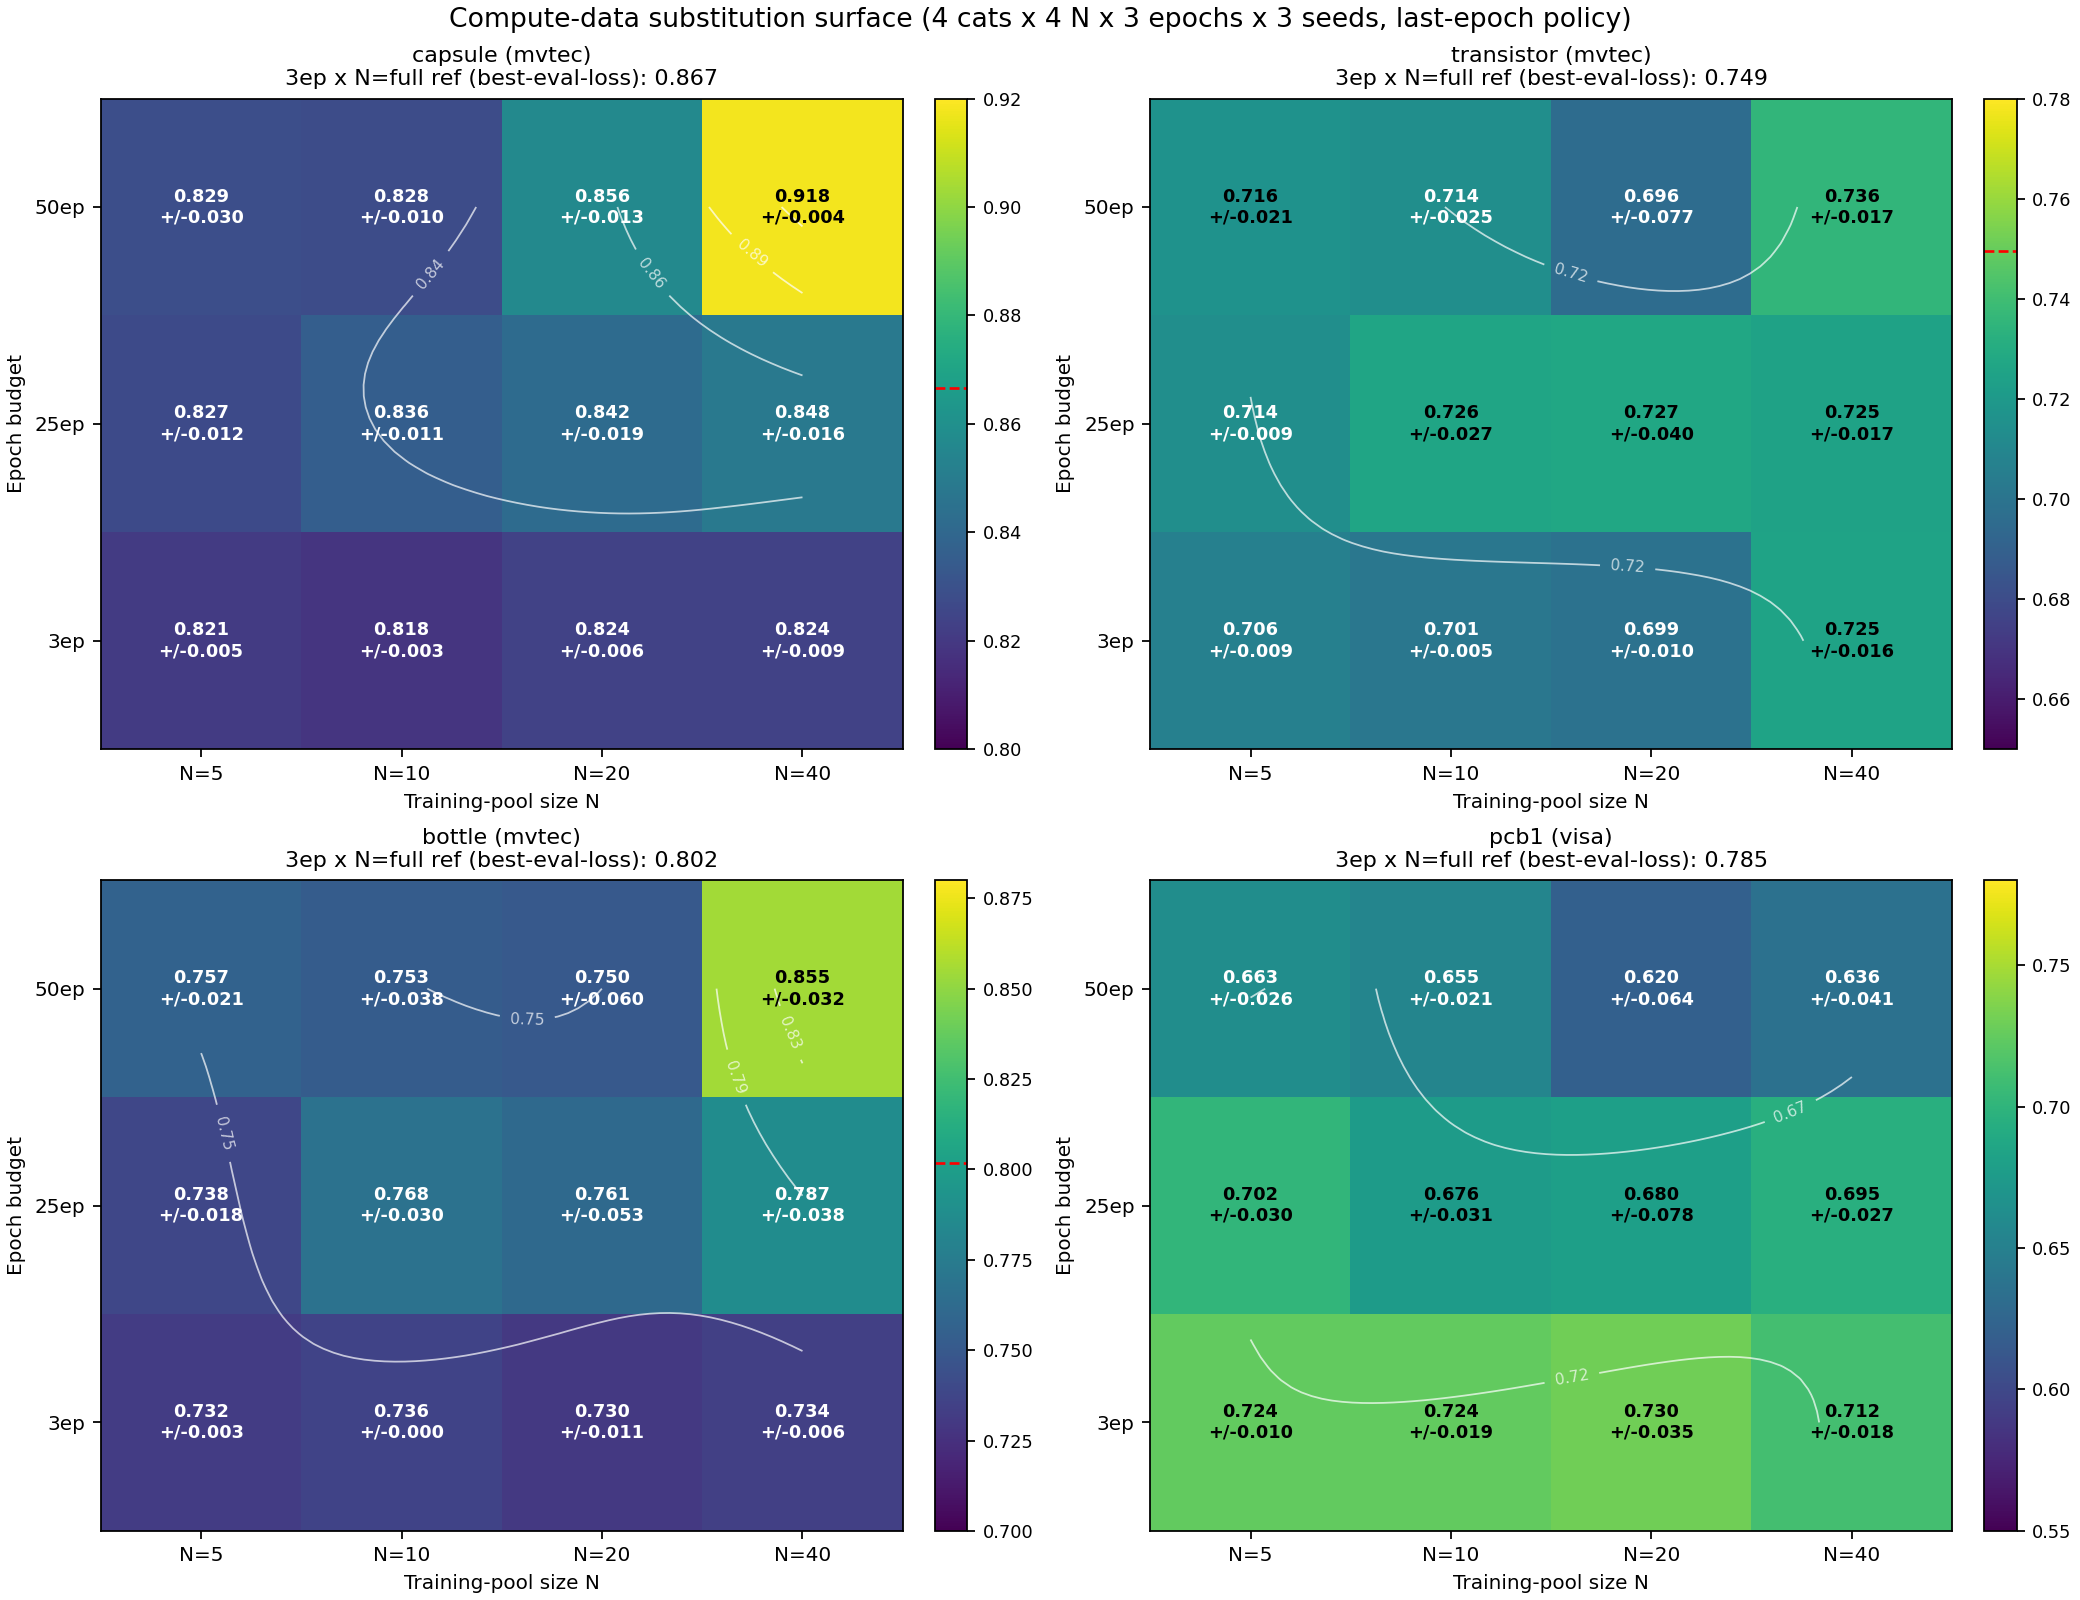
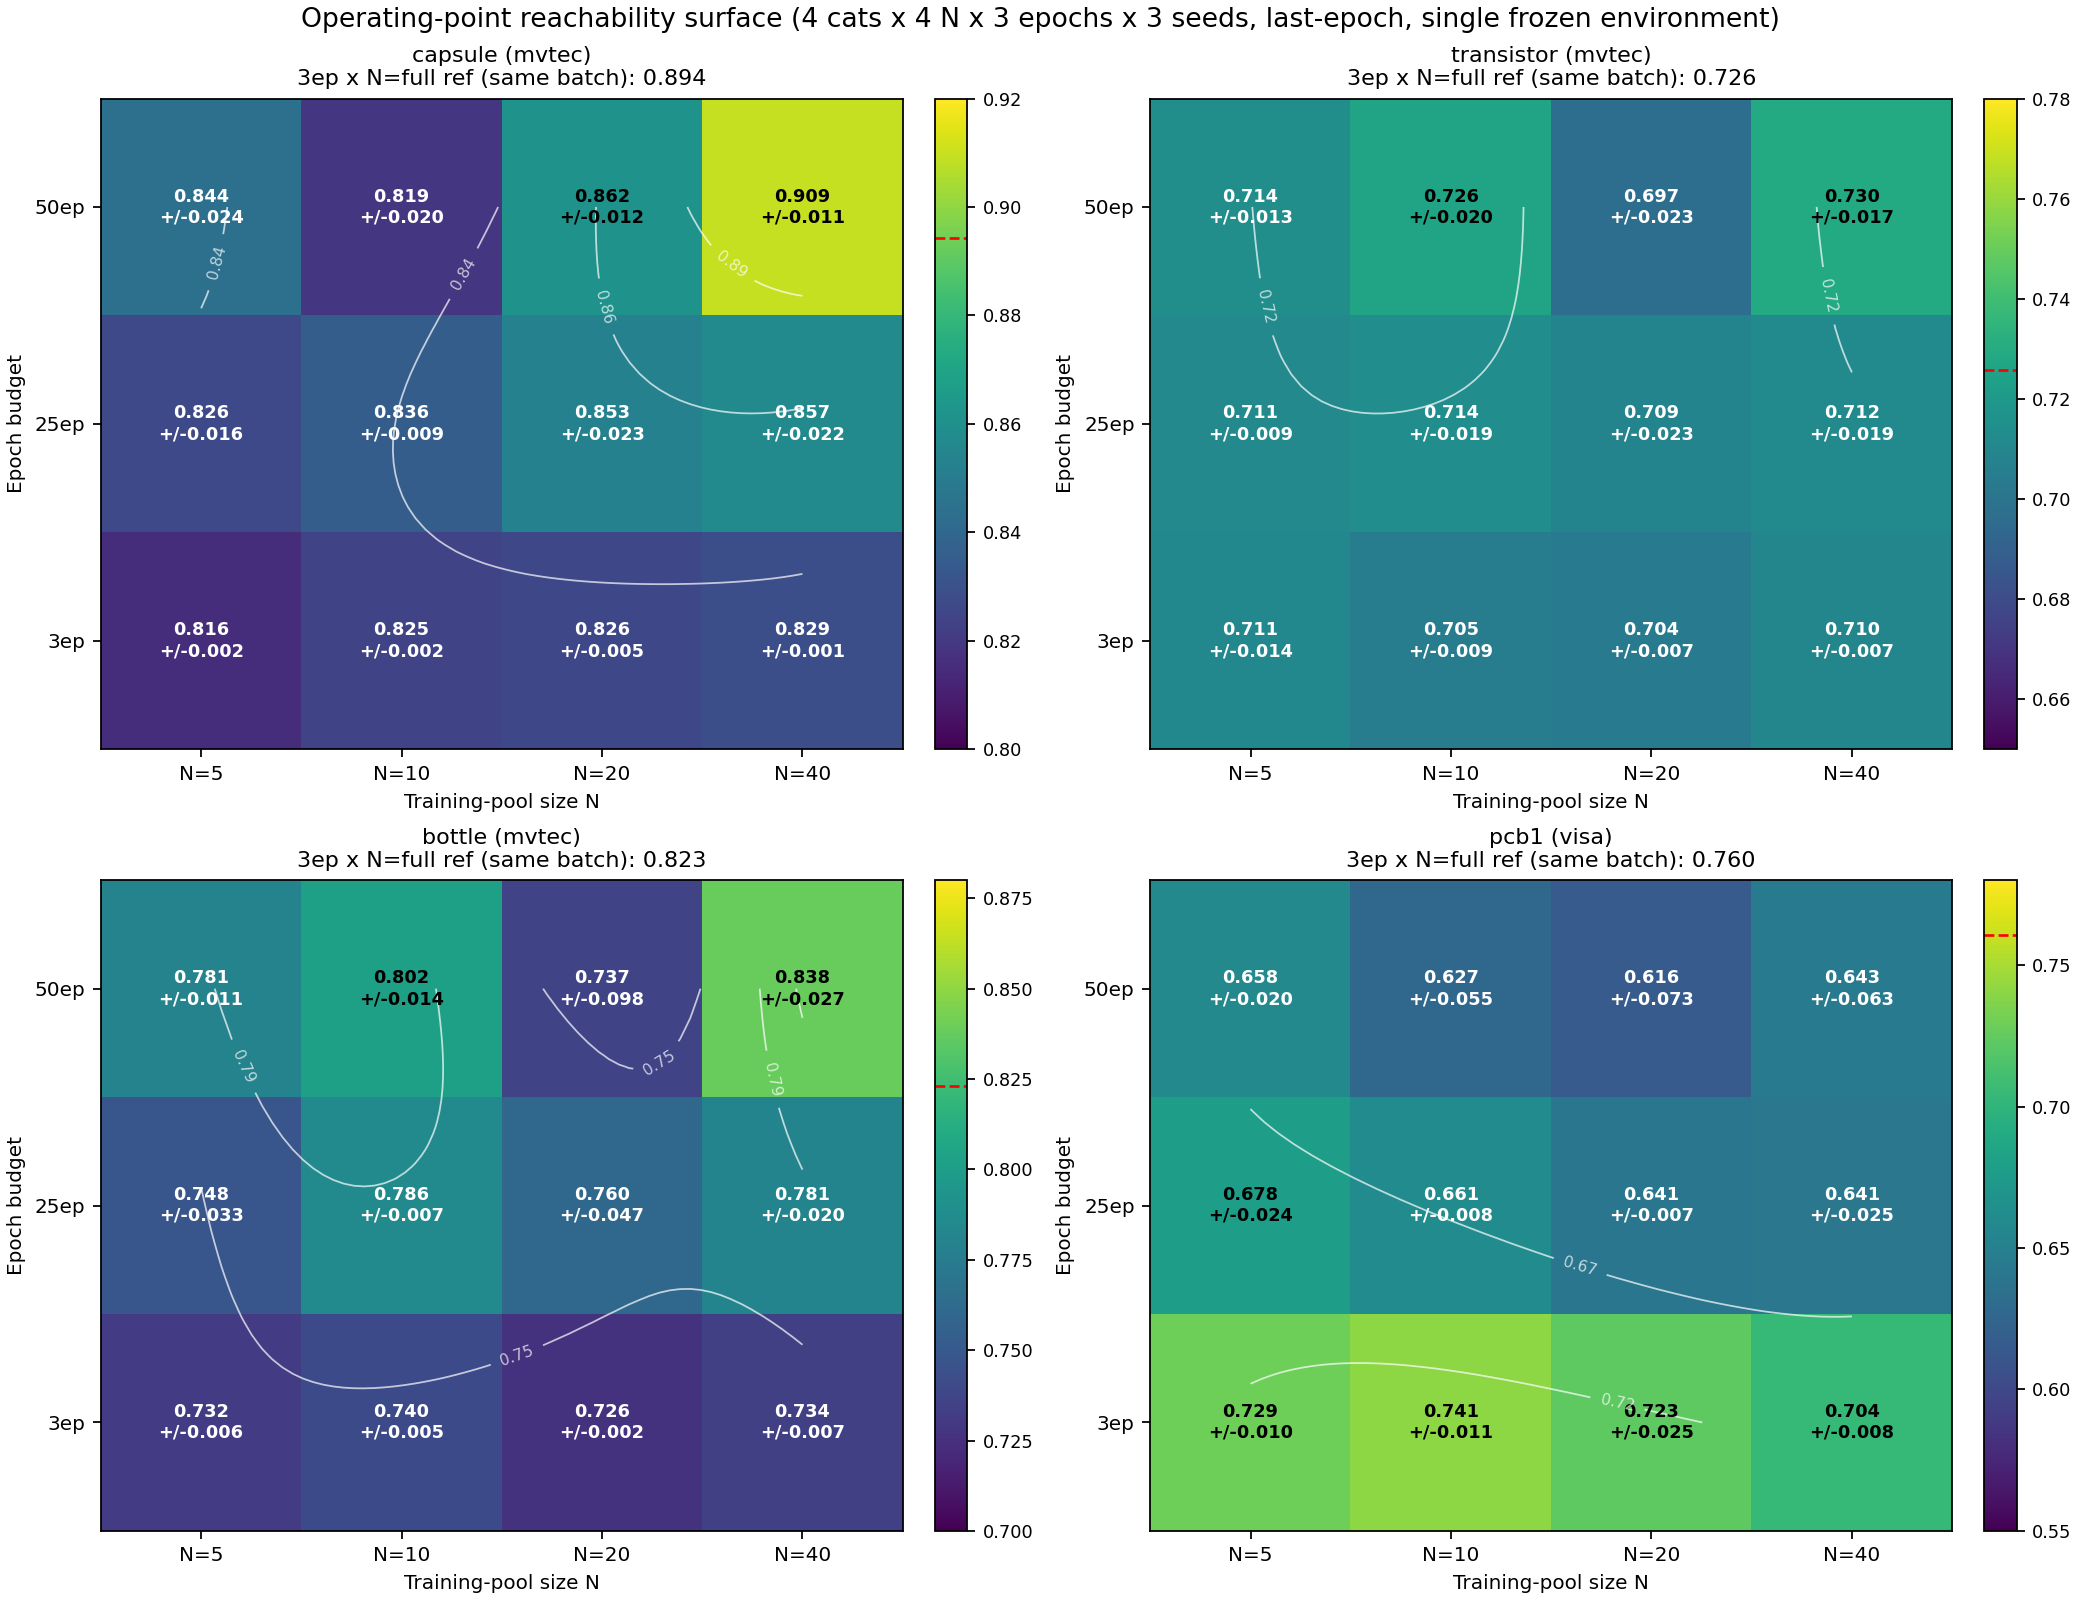
figures: regenerate 2D surface + teaser from frozen single-environment batch
make_v15_figures.py now reads the v0.6-*-frozen recipes (pass16) instead
of v0.5-2d-sweep / v0.8-fixed-pipeline, so the surface corner and its
full-pool reference are same-environment. Frozen capsule corner 0.909 vs
0.894 reference; titles reframed to operating-point reachability.

diff --git a/research/baselines/make_v15_figures.py b/research/baselines/make_v15_figures.py
@@ -648,12 +648,12 @@ def fig_2d_substitutability_4cat(rows):
     ns = [5, 10, 20, 40]
 
     fig, axes = plt.subplots(2, 2, figsize=(13, 10), constrained_layout=True)
-    fig.suptitle("Compute-data substitution surface (4 cats x 4 N x 3 epochs x 3 seeds, last-epoch policy)",
+    fig.suptitle("Operating-point reachability surface (4 cats x 4 N x 3 epochs x 3 seeds, last-epoch, single frozen environment)",
                  fontsize=12)
 
     for k, (cat, ds, label, vrange) in enumerate(cats):
         ax = axes[k // 2, k % 2]
-        sweep = [r for r in rows if r.get('recipe_version','').startswith('v0.5-2d-sweep')
+        sweep = [r for r in rows if r.get('recipe_version','').startswith('v0.6-2d-frozen')
                  and r.get('category') == cat]
         grid = np.full((len(epochs), len(ns)), np.nan)
         sd_grid = np.full_like(grid, np.nan)
@@ -673,7 +673,7 @@ def fig_2d_substitutability_4cat(rows):
         ref_aurs = [r['auroc'] for r in rows
                     if r.get('category') == cat and r.get('dataset') == ds
                     and r.get('n_samples') == -1
-                    and r.get('recipe_version') == 'v0.8-fixed-pipeline']
+                    and r.get('recipe_version') == 'v0.6-fullpool-3ep-frozen']
         nfull_3ep = statistics.mean(ref_aurs) if ref_aurs else None
 
         norm = mcolors.Normalize(vmin=vrange[0], vmax=vrange[1])
@@ -714,7 +714,7 @@ def fig_2d_substitutability_4cat(rows):
 
         sub = label
         if nfull_3ep is not None:
-            sub += f"\n3ep x N=full ref (best-eval-loss): {nfull_3ep:.3f}"
+            sub += f"\n3ep x N=full ref (same batch): {nfull_3ep:.3f}"
         ax.set_title(sub, fontsize=10)
 
         cbar = fig.colorbar(im, ax=ax, fraction=0.046, pad=0.04)
@@ -746,7 +746,7 @@ def fig_v15_teaser(rows):
 
     # LEFT PANEL: capsule 2D substitutability heatmap
     ax1 = fig.add_subplot(gs[0, 0])
-    sweep = [r for r in rows if r.get('recipe_version','').startswith('v0.5-2d-sweep')
+    sweep = [r for r in rows if r.get('recipe_version','').startswith('v0.6-2d-frozen')
              and r.get('category') == 'capsule']
     epochs = [3, 25, 50]
     ns = [5, 10, 20, 40]
@@ -777,7 +777,7 @@ def fig_v15_teaser(rows):
     ax1.set_yticklabels([f"{ep}ep" for ep in epochs], fontsize=10)
     ax1.set_xlabel("Training-pool size N", fontsize=10)
     ax1.set_ylabel("Epoch budget", fontsize=10)
-    ax1.set_title("Substitutability surface (capsule, mvtec)\nmore compute trades for less data:\n50ep x N=40 = 0.918 reaches above 3ep x N=full",
+    ax1.set_title("Operating-point reachability (capsule, mvtec)\nmore compute reaches what more labels reach:\n50ep x N=40 = 0.909 vs 3ep x N=full = 0.894 (same batch)",
                   fontsize=10)
     fig.colorbar(im, ax=ax1, fraction=0.046, pad=0.04, label="AUROC")
 
@@ -823,7 +823,7 @@ def fig_v15_teaser(rows):
     ax2.legend(loc='upper right', fontsize=9)
     ax2.grid(axis='y', alpha=0.3)
 
-    fig.suptitle("Headline findings: compute-data substitution on the substitutability surface (left) and"
+    fig.suptitle("Headline findings: operating-point reachability surface (left) and"
                  " 4-pattern catastrophic-Gemma decomposition (right)",
                  fontsize=11, y=1.04)
     out = OUT / "fig_v15_teaser.png"
